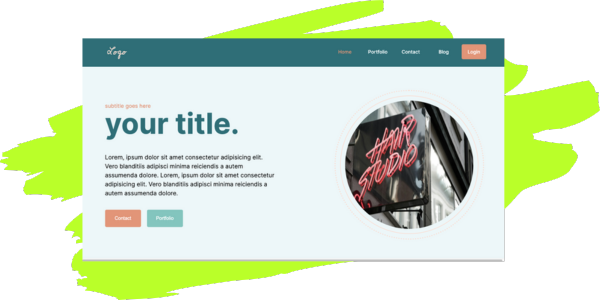
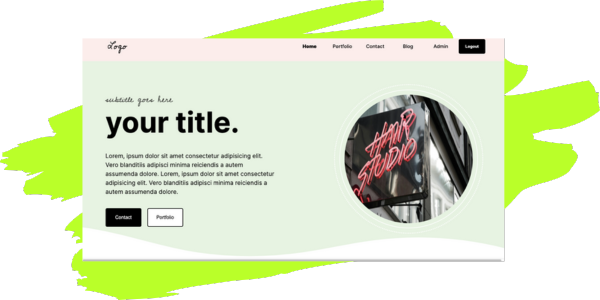
Update styling

diff --git a/src/app/globals.css b/src/app/globals.css
@@ -249,7 +249,7 @@
     .section {
       padding-bottom: 220px;
       position: relative;
-      overflow: hidden;
+      overflow: hidden !important;
     }
 
     .section__title,
@@ -264,14 +264,6 @@
       color: var(--primary-color);
       font-size: var(--biggest-font-size);
     }
-
-    /* .section__subtitle {
-      /* color: var(--primary-color);
-      font-size: var(--smaller-font-size);
-      text-transform: uppercase;
-      font-weight: 700; 
-      margin-bottom: 60px;
-    } */
 
     .section__subtitle  {
       font-family: var(--second-font);
@@ -313,17 +305,7 @@
       font-weight: 900;
       background-color: var(--primary-color);
       border-radius: 50%;
-      /* box-shadow: var(--shadow);
-      background-color: var(--container-color);
-      border: 2px solid var(--border-color);
-      padding: 15px; */
     }
-
- 
-
-
-
-
 
     .link:hover .link__icon {
       background-color: transparent;
@@ -396,6 +378,7 @@
       bottom: 148px;
       left: 50%;
       transform: translateX(-50%);
+      overflow: hidden !important;
     }
 
     .bg__title {
@@ -405,8 +388,12 @@
       line-height: 1px;
       white-space: nowrap;
       pointer-events: none;
-      color: rgba(255, 255, 255, 0.1);
-      overflow: hidden;
+      color: rgba(255, 255, 255, 0.08);
+      overflow: hidden !important;
+    }
+
+    .dark {
+      color: rgba(255, 255, 255, 0.12) ;
     }
 
     @media screen and (max-width: 1450px) {
@@ -419,6 +406,10 @@
       .section__deco:not(.nav__deco) {
         display: none;
       }
+
+      /* .bg__title {
+        font-size: 350px;
+      } */
     
       .nav {
         padding: 30px 12px;
@@ -472,9 +463,17 @@
       .skills__container {
         gap: 30px;
       }
+/* 
+      .bg__title {
+        font-size: 300px;
+      } */
     }
     
     @media screen and (max-width: 768px) {
+      .bg__title {
+        
+        max-width: 100vw;
+      }
       .nav {
         padding: 24px 12px;
       }
@@ -535,12 +534,16 @@
     
     @media screen and (max-width: 576px) {
       .showMenu {
-        width: 100%;
+        width: 100% !important;
       }
     
       .nav__btns {
         column-gap: 24px;
       }
+
+      /* .bg__title {
+        font-size: 250px;
+      } */
     }
     
     @media screen and (max-width: 350px) {

diff --git a/src/components/hero/hero.module.css b/src/components/hero/hero.module.css
@@ -2,9 +2,15 @@
 .hero {
     background-image: var(--first-gradient);
     padding-bottom: 180px;
-    overflow: hidden;
+    position: relative;
+    overflow: hidden !important;
+    
   }
-  
+
+  .heroBgWrapper {
+    overflow: initial !important;
+  }
+
   .hero,
   .hero__wrapper,
   .hero__container {
@@ -127,57 +133,7 @@
     border: 3px solid var(--primary-color);
   }
   
-  .hero__data {
-    border: 2px solid var(--border-color);
-    background: var(--container-color);
-    box-shadow: var(--shadow);
-    padding-inline: 20px;
-    width: 250px;
-    height: 82px;
-    border-radius: 82px;
-    display: flex;
-    align-items: center;
-    position: absolute;
-    z-index: 1;
-  }
   
-  .hero__data-one {
-    bottom: 20%;
-    left: -4%;
-  }
-  
-  .hero__data-two {
-    bottom: 12%;
-    right: 6%;
-  }
-  
-  .hero__data .text-lg,
-  .hero__data .text-sm {
-    width: 50%;
-    color: var(--title-color);
-    font-weight: 700;
-  }
-  
-  .hero__data .text-lg {
-    text-align: center;
-    font-size: 37px;
-  }
-  
-  .hero__data .text-sm {
-    font-size: 13px;
-    line-height: 1.5em;
-  }
-  
-  .hero__data .text-lg b,
-  .hero__data .text-sm span {
-    color: var(--primary-color);
-  }
-  
-  .hero__data .text-lg b {
-    position: relative;
-    top: -4px;
-  }
-
 
 
 
@@ -220,9 +176,6 @@
       max-width: 600px;
     }
   
-    .hero__data {
-      transform: scale(0.9);
-    }
   
     .shape1 {
       width: 203px;
@@ -289,18 +242,6 @@
       max-width: 400px;
     }
   
-    .hero__data {
-      transform: scale(0.6);
-    }
-  
-    .hero__data-one {
-      left: -12%;
-    }
-  
-    .hero__data-two {
-      right: -7%;
-    }
-  
     .shape1 {
       width: 115px;
       height: 115px;
@@ -333,19 +274,5 @@
   @media screen and (max-width: 350px) {
     .hero__imgWrapper {
       margin-block-start: 80px;
-    }
-  
-    .hero__data {
-      transform: scale(0.5);
-    }
-  
-    .hero__data-one {
-      bottom: 18%;
-      left: -18%;
-    }
-  
-    .hero__data-two {
-      bottom: 0;
-      right: -12%;
     }
   }

diff --git a/src/components/projects/Projects.tsx b/src/components/projects/Projects.tsx
@@ -32,7 +32,7 @@ export default function Projects() {
         {projects.map((project) => {
           return (
             // <SwiperSlide className={`${styles.projects__item} card card-one`} key={project.id}>
-            <CarouselItem key={project.id} className={`${styles.projects__item} md:basis-1/2 xl:basis-1/3`}>
+            <CarouselItem key={project.id} className={`${styles.projects__item} lg:basis-1/2 xl:basis-1/3`}>
               <ProjectCard  project={project} />
             {/* // </SwiperSlide> */}
             </CarouselItem>
@@ -52,7 +52,7 @@ export default function Projects() {
       </div>
 
       <div className='section__bg-wrapper'>
-        <span className='bg__title'>My Projects</span>
+        <span className='bg__title'>Projects</span>
       </div>
     </section>
   )

diff --git a/src/app/layout.tsx b/src/app/layout.tsx
@@ -7,8 +7,8 @@ import { Footer } from "@/components/footer/Footer";
 const inter = Inter({ subsets: ["latin"] });
 
 export const metadata: Metadata = {
-  title: "Create Next App",
-  description: "Generated by create next app",
+  title: "Lizmery Vigil Portfolio",
+  description: "Lizmery Vigil - Software Developer",
 };
 
 export default function RootLayout({
@@ -19,6 +19,7 @@ export default function RootLayout({
   return (
     <html lang="en">
       <body className={inter.className}>
+      
         <Nav />
         {children}
         <Footer />

diff --git a/src/components/resume/resume.module.css b/src/components/resume/resume.module.css
@@ -74,7 +74,7 @@
   }
   
   .showContent {
-    max-height: 500px;
+    max-height: 600px;
   }
 
   .activeIcon {
@@ -121,13 +121,12 @@
   }
 
   @media screen and (max-width: 576px) {
-  
-    .resume__nav {
-      padding: 28px 24px;
+    .resume__header {
+      padding: 25px 10px 5px 10px;
     }
   
     .resume__content {
-      padding-inline: 24px 30px;
+      padding-inline: 10px 16px;
     }
   
     .resume__dateTitle {

diff --git a/src/components/about/about.module.css b/src/components/about/about.module.css
@@ -1,6 +1,8 @@
 .about {
     background-image: var(--first-gradient);
     padding-bottom: 180px;
+    position: relative;
+    overflow: hidden !important;
   }
   
   .about,
@@ -78,6 +80,13 @@
   .shape__3 {
     bottom: 0;
     right: -2%;
+  }
+
+  #about 
+
+  #about .bg__title {
+    overflow: hidden !important;
+    max-width: 100vw;
   }
 
   @media screen and (max-width: 1400px) {

diff --git a/src/components/projects/projects.module.css b/src/components/projects/projects.module.css
@@ -124,8 +124,19 @@
     }
   }
 
-  @media screen and (max-width: 350px) {
+  @media screen and (max-width: 576px) {
+    .cardShape {
+      width: 120px;
+      height: 120px;
+    }
+  }
+
+  @media screen and (max-width: 420px) {
     .projects__img {
       height: 180px;
+    }
+    .cardShape {
+      width: 100px;
+      height: 100px;
     }
   }

diff --git a/src/components/hero/Hero.tsx b/src/components/hero/Hero.tsx
@@ -58,8 +58,8 @@ export default function Hero() {
             </div>
       </div>
 
-      <div className='section__bgWrapper'>
-        <span className='bg__title'>Software Developer</span>
+      <div className={`section__bgWrapper ${styles.heroBgWrapper}`}>
+        <span className='bg__title dark'>Software Developer</span>
       </div>
 
 

diff --git a/src/components/contact/Contact.tsx b/src/components/contact/Contact.tsx
@@ -138,7 +138,7 @@ export default function Contact() {
       </div>
 
       <div className='section__bg-wrapper'>
-        <span className='bg__title'>Contact Me</span>
+        <span className='bg__title dark'>Contact</span>
       </div>
     </section>
   )

diff --git a/src/components/resume/Resume.tsx b/src/components/resume/Resume.tsx
@@ -59,7 +59,7 @@ export default function Resume() {
       </div>
 
       <div className='section__bg-wrapper'>
-        <span className='bg__title'>My Resume</span>
+        <span className='bg__title dark'>Resume</span>
       </div>
     </section>
   )

diff --git a/src/components/skills/Skills.tsx b/src/components/skills/Skills.tsx
@@ -29,7 +29,7 @@ export default function Skills() {
       </div>
 
       <div className='section__bg-wrapper'>
-        <span className='bg__title'>My Skills</span>
+        <span className='bg__title'>Skills</span>
       </div>
     </section>
   )

diff --git a/src/components/about/About.tsx b/src/components/about/About.tsx
@@ -54,7 +54,7 @@ export default function About() {
     
 
     <div className='section__bg-wrapper'>
-      <span className='bg__title'>About Me</span>
+      <span className='bg__title dark'>About Me</span>
     </div>
   </section>
   )
